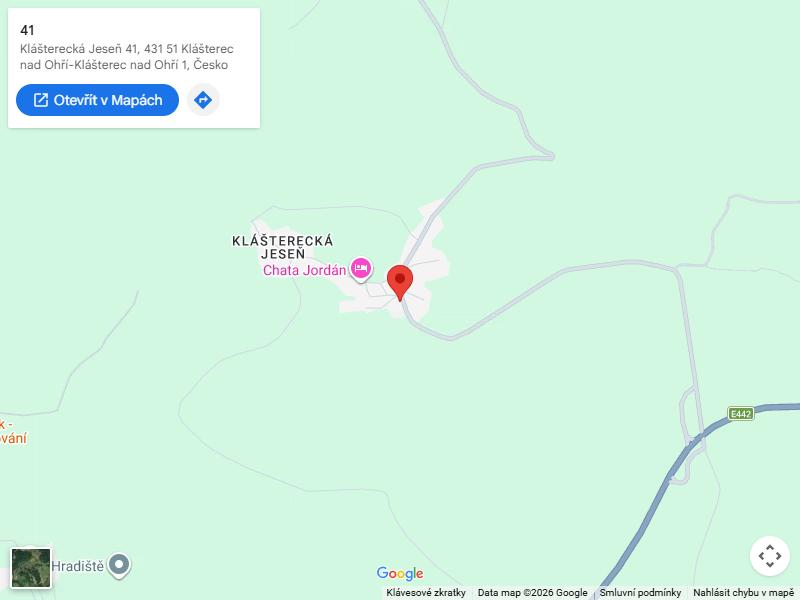
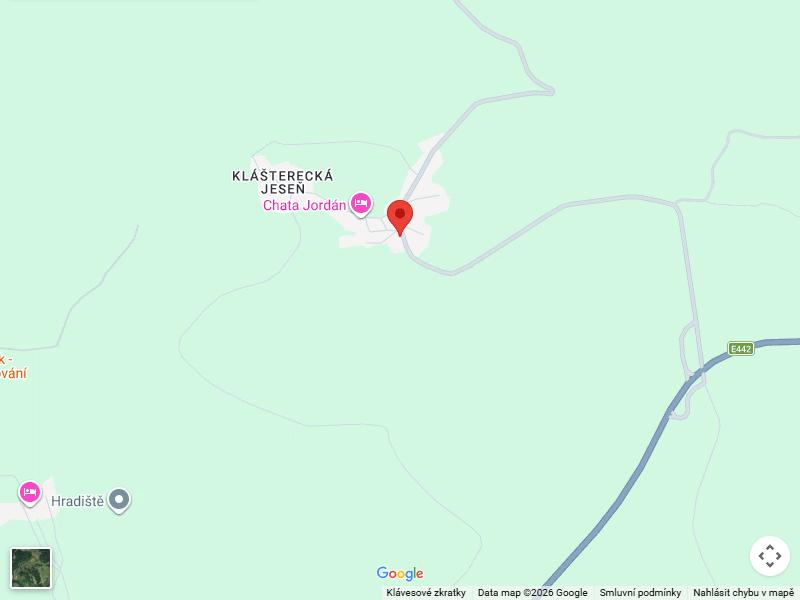
Snímek mapy bez karty s adresou

diff --git a/css/logo.css b/css/logo.css
@@ -141,7 +141,7 @@ section{padding:104px 0}
 .socials a:hover{background:var(--ink);color:#fff}
 .map{margin-top:28px;width:100%;aspect-ratio:16/10;border:0}
 .map-consent{display:flex;align-items:center;justify-content:center;position:relative;overflow:hidden;background:var(--paper);border:2px solid var(--line)}
-.map-consent::before{content:"";position:absolute;inset:0;background:url(../img/mapa.jpg?v=1) center/cover;filter:grayscale(1) contrast(.9) brightness(1.05);opacity:.55}
+.map-consent::before{content:"";position:absolute;inset:0;background:url(../img/mapa.jpg?v=2) center/cover;filter:grayscale(1) contrast(.9) brightness(1.05);opacity:.55}
 .map-inner{position:relative;z-index:1;text-align:center;padding:24px;max-width:420px;background:rgba(255,255,255,.92);border-top:5px solid var(--or)}
 .map-inner svg{width:36px;height:36px;fill:var(--or);margin:0 auto 6px;display:block}
 .map-inner b{display:block;font-family:var(--head);font-stretch:125%;font-weight:800;text-transform:uppercase;color:var(--ink)}

diff --git a/index.html b/index.html
@@ -8,7 +8,7 @@
 <meta name="description" content="Výkopové a zemní práce, terénní úpravy, kanalizační přípojky, suťové a velkoobjemové kontejnery, odvoz zeminy a suti, dovoz štěrku a písku. Klášterec nad Ohří a okolí.">
 <link rel="icon" href="img/logo.png">
 <link rel="stylesheet" href="css/fonts-logo.css?v=1">
-<link rel="stylesheet" href="css/logo.css?v=2">
+<link rel="stylesheet" href="css/logo.css?v=3">
 </head>
 <body>
 

diff --git a/404.html b/404.html
@@ -8,7 +8,7 @@
 <meta name="description" content="Tahle stránka neexistuje.">
 <link rel="icon" href="/jk-zemni-prace-web/img/logo.png">
 <link rel="stylesheet" href="/jk-zemni-prace-web/css/fonts-logo.css?v=1">
-<link rel="stylesheet" href="/jk-zemni-prace-web/css/logo.css?v=2">
+<link rel="stylesheet" href="/jk-zemni-prace-web/css/logo.css?v=3">
 </head>
 <body>
 <div class="band" aria-hidden="true"></div>

diff --git a/ochrana-osobnich-udaju.html b/ochrana-osobnich-udaju.html
@@ -8,7 +8,7 @@
 <meta name="description" content="Jak JK - zemní práce s.r.o. zpracovává osobní údaje z poptávek, e-mailů a telefonátů.">
 <link rel="icon" href="img/logo.png">
 <link rel="stylesheet" href="css/fonts-logo.css?v=1">
-<link rel="stylesheet" href="css/logo.css?v=2">
+<link rel="stylesheet" href="css/logo.css?v=3">
 </head>
 <body>
 
